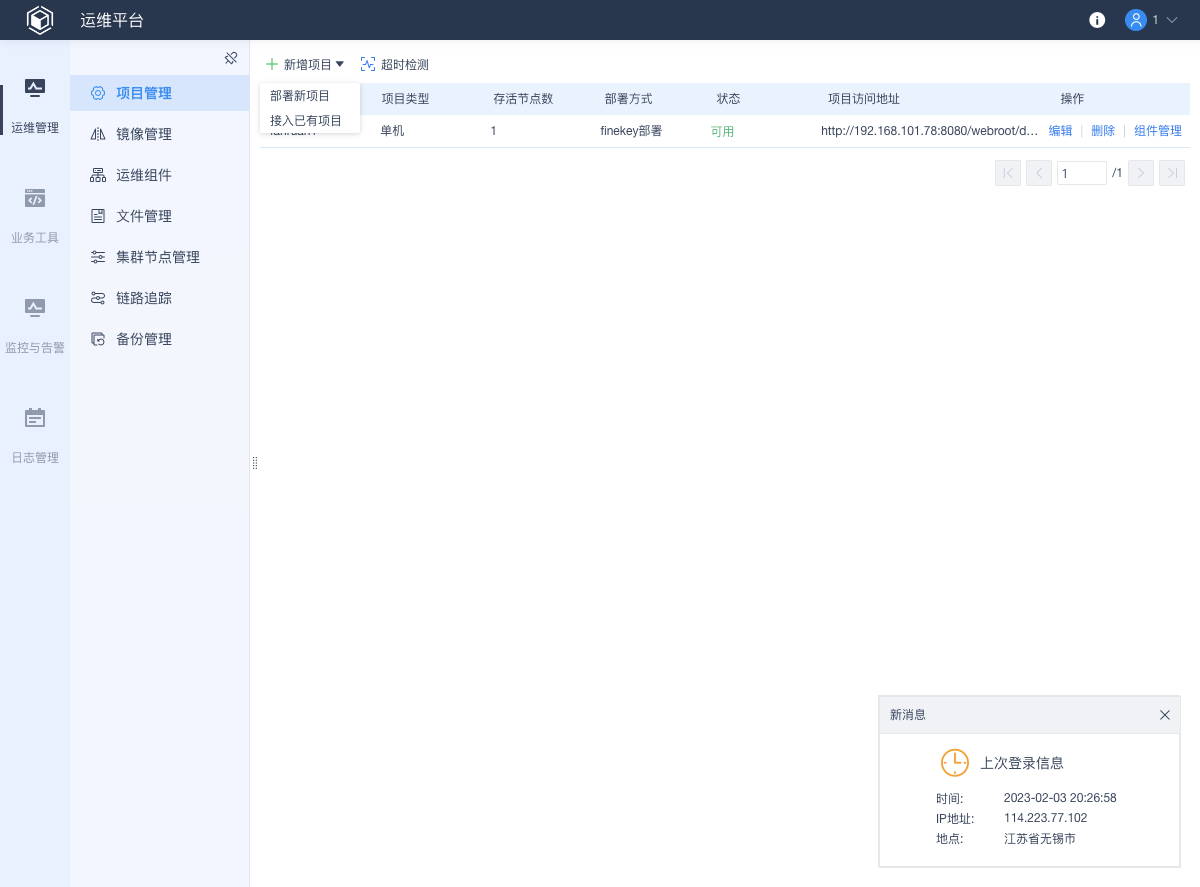
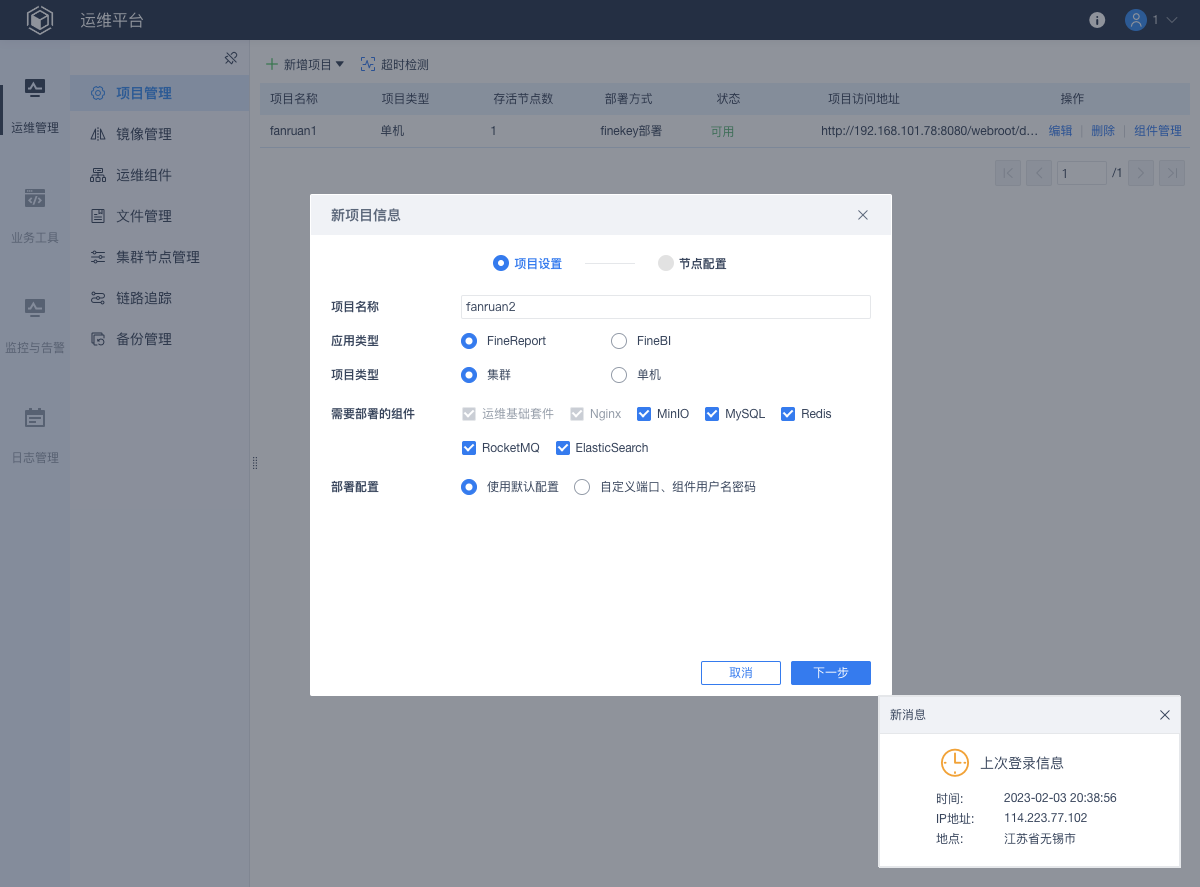
feat: add homepage2
- add homepage2
- delete homepage1

diff --git a/script/homepage/点击新建项目.js b/script/homepage/点击新建项目.js
@@ -33,7 +33,9 @@ describe('homepage2', function () {
              */
             .useXpath()
             .click('/html/body/div[1]/div[1]/div[2]/div[2]/div/div[1]/div[2]/div/div/div[1]/div[3]/div[1]/div[1]/div')
+            .click('/html/body/div[1]/div[1]/div[2]/div[2]/div/div[1]/div[2]/div/div/div[1]/div[3]/div[2]/div/div/div[1]/div')
             .useCss()
+            .pause(1000)
             .saveScreenshot(dest)
             .end();
     });

diff --git a/bin/clear.js b/bin/clear.js
@@ -21,7 +21,8 @@ function deleteall(path) {
     }
 };
 
-deleteall('./sources');
+deleteall('./sources/test');
+deleteall('./test');
 if (all) {
-    deleteall('./test');
+    deleteall('./sources/main');
 }
